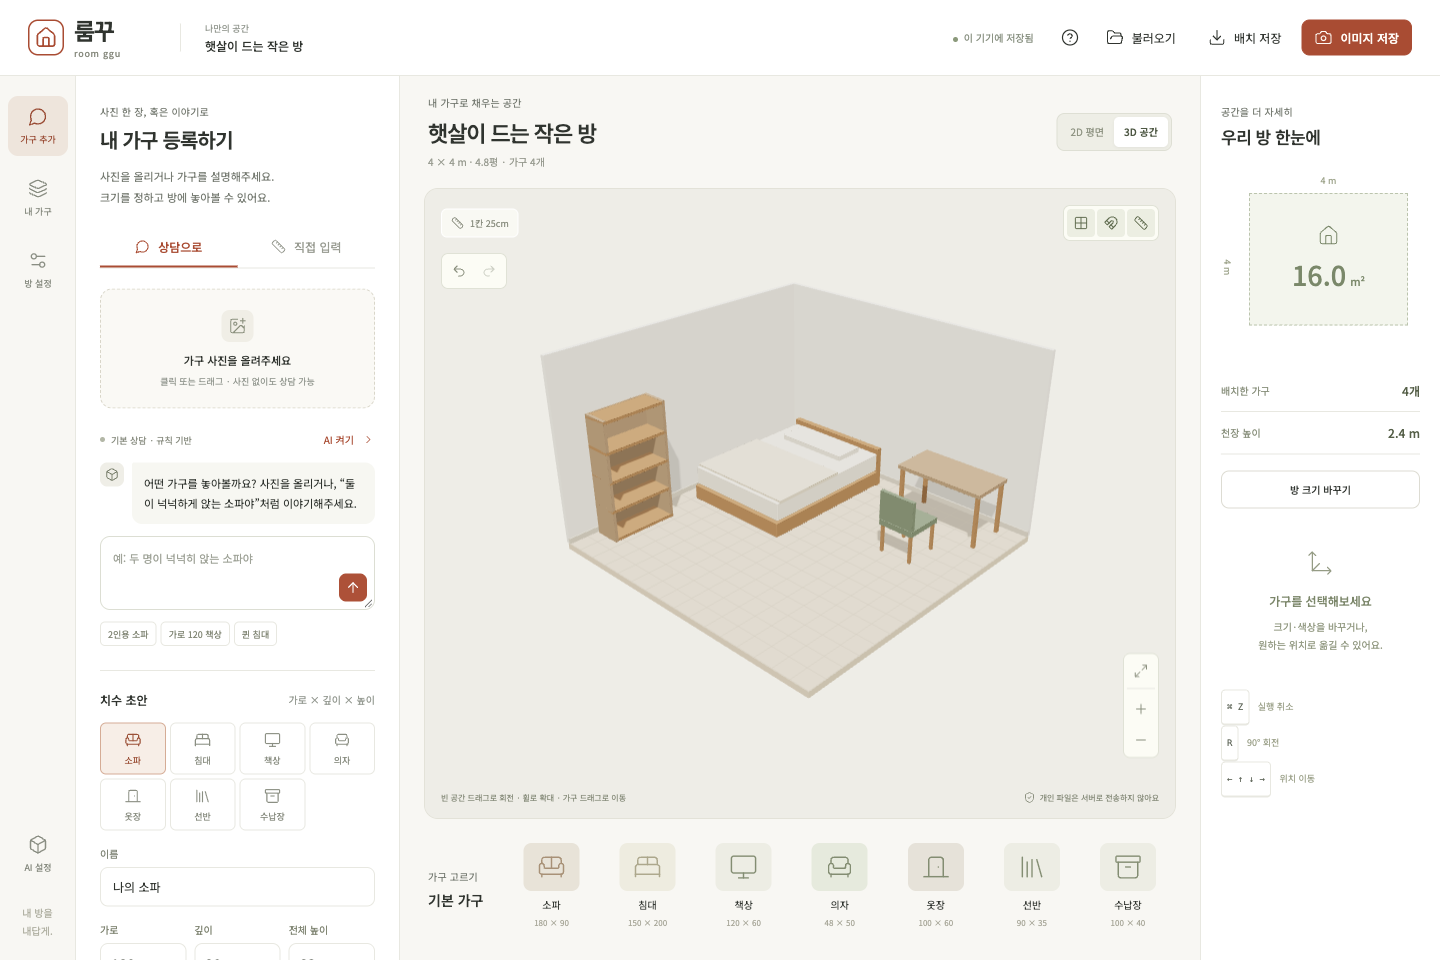
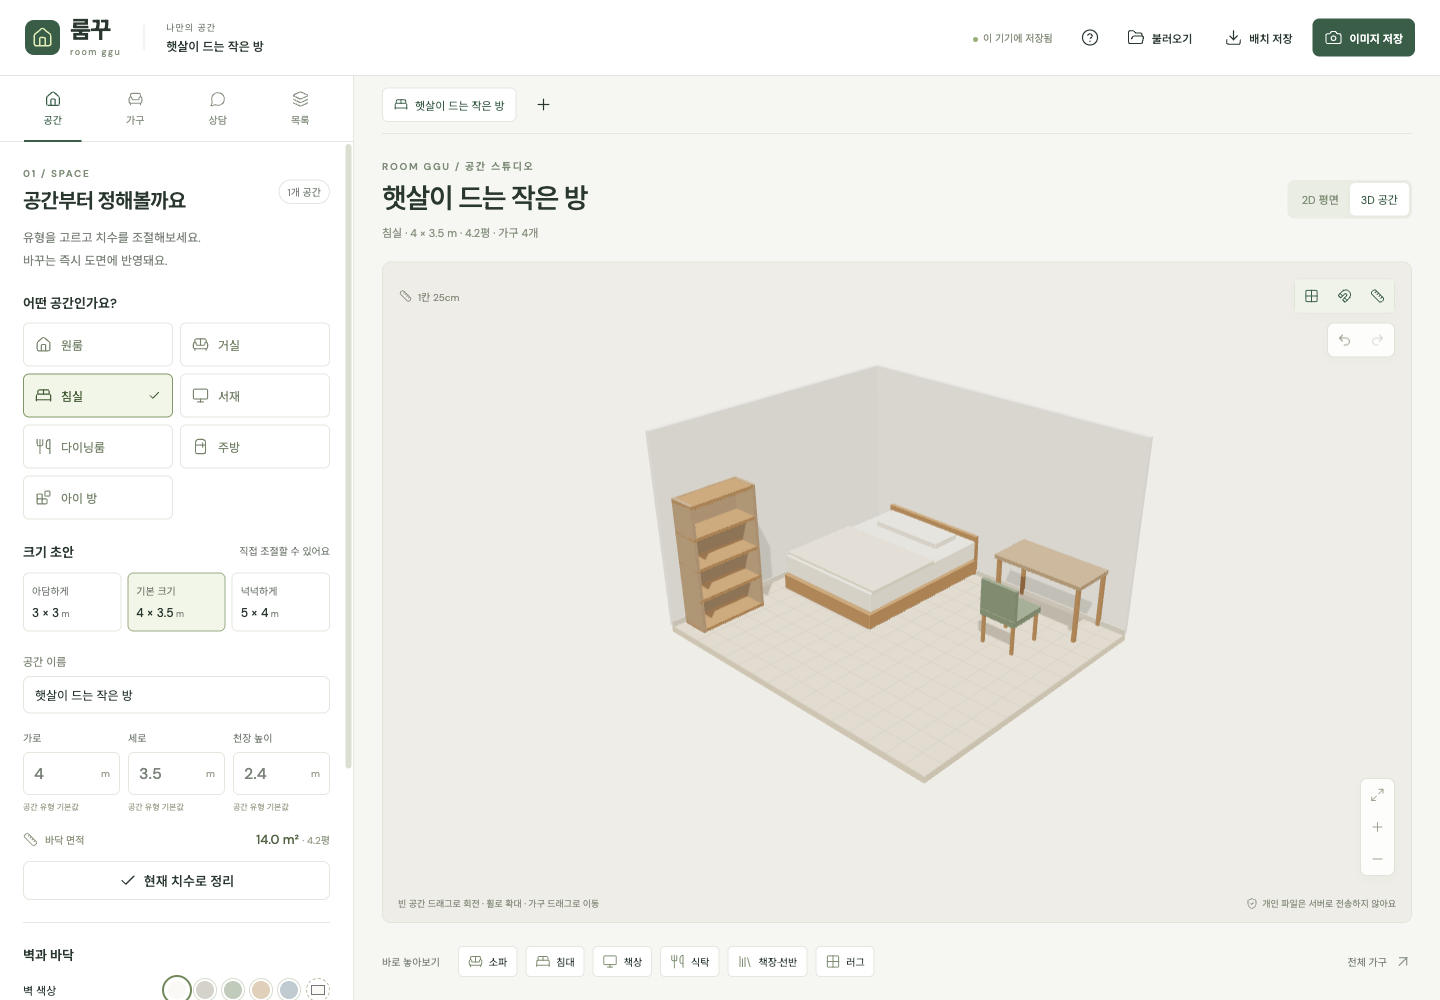
docs: update room studio screenshots and team handoff

diff --git a/README.md b/README.md
@@ -6,6 +6,8 @@
 
 ![룸꾸 데스크톱 편집기](docs/screenshots/desktop.png)
 
+![3D 가구 라이브러리](docs/screenshots/catalog.png)
+
 ## 사용하기
 
 1. **공간**에서 원룸·거실·침실 등 7가지 유형과 크기를 선택합니다. 치수·벽·바닥은 바로 화면에 반영됩니다. 공간을 추가하면 방별로 따로 저장합니다.
